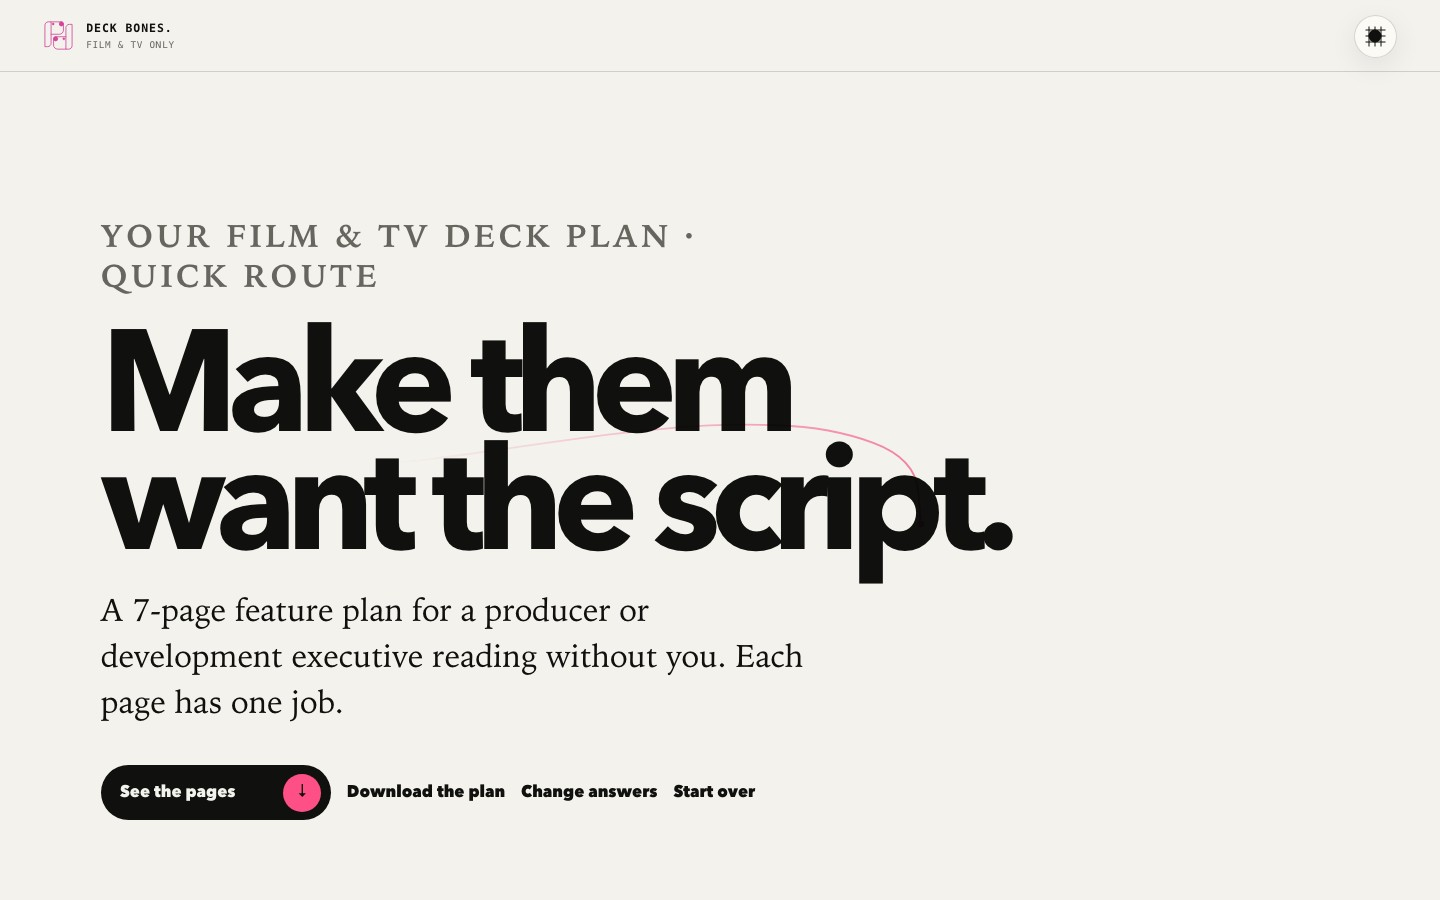
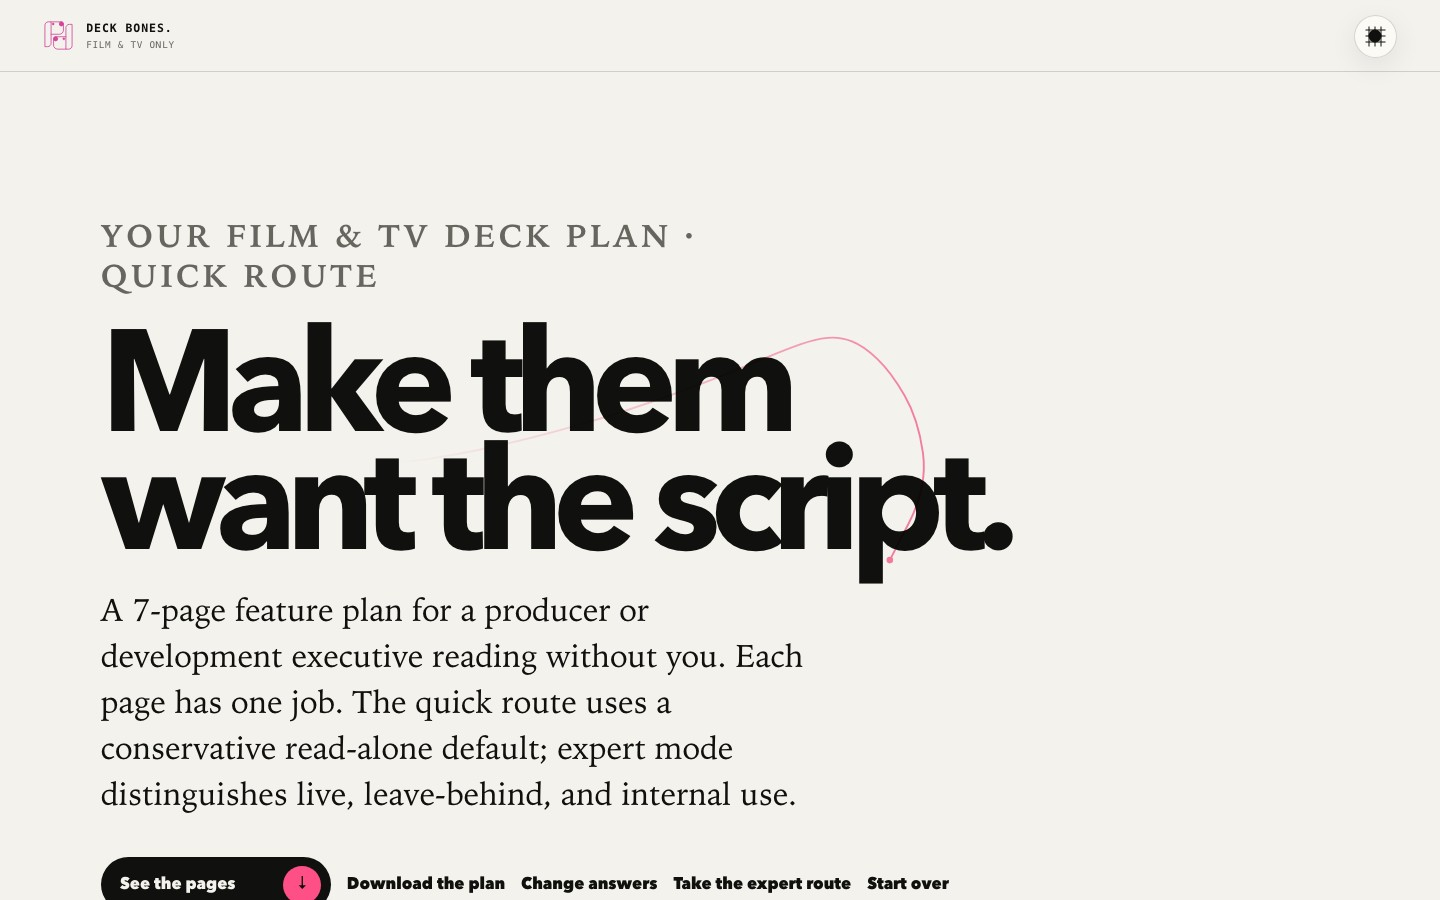
Make Deck Bones state and page travel exact

Changed region(s): [[0.0625, 0.7467, 0.6562, 1.0], [0.625, 0.4978, 0.6562, 0.5289]]

diff --git a/src/main.ts b/src/main.ts
@@ -77,7 +77,7 @@ function landingPage(): string {
     <div class="landing-copy">
       <p class="scope-tag">Film & TV only · scripted features and series</p><p class="kicker">A deck with a reason to exist.</p>
       <h1 data-page-heading tabindex="-1">Plan the deck.</h1>
-      <p class="landing-lede">Choose the real reader and the next decision. Get a useful Film & TV structure out—without blank boxes, template theatre, or a thirty-page tax return.</p>
+      <p class="landing-lede">Choose the real reader and the next decision. Get a useful Film & TV structure out—without blank boxes, template theater, or a thirty-page tax return.</p>
       <div class="landing-proof"><span>Bold choices only</span><span>Pages have one job</span><span>Nothing leaves the browser</span></div>
       <a class="primary-action" href="#choose-a-route">Choose your route <span aria-hidden="true">↓</span></a>
     </div>
@@ -102,7 +102,7 @@ function flowPage(): string {
     ${progress(`${state.ride === "expert" ? "Expert" : "Quick"} Film & TV deck planner`, state.step, active.length)}
     <div class="question-layout">
       <div class="question-copy"><button class="question-back" id="flow-back" type="button">← ${state.step ? "Previous question" : "Choose another route"}</button><div class="question-art" aria-hidden="true"><img src="/assets/hero.webp" alt=""></div><p class="scope-tag">Deck Bones · Film & TV only</p><p class="kicker">${step.kicker}</p><h1 data-page-heading tabindex="-1">${step.question}</h1><p>${step.note}</p></div>
-      <div class="answers-panel"><div class="answers-inner">${choiceGrid(step.choices, step.multiple ? "multi-choice" : "flow-choice", selected, many)}${step.multiple ? '<button class="primary-action multi-continue" id="multi-continue" type="button">Keep going <span aria-hidden="true">↗</span></button>' : ""}</div></div>
+      <div class="answers-panel"><div class="answers-inner"><p class="answers-instruction">${step.multiple ? "Pick every boundary that is real. Nothing else." : "Pick the closest truth. We’ll do the fussy translation."}</p>${choiceGrid(step.choices, step.multiple ? "multi-choice" : "flow-choice", selected, many)}${step.multiple ? '<button class="primary-action multi-continue" id="multi-continue" type="button">Keep going <span aria-hidden="true">↗</span></button>' : ""}</div></div>
     </div>
   </section>`;
 }
@@ -125,12 +125,15 @@ function resultPage(): string {
 }
 
 function pages(result: NonNullable<AppState["result"]>): string {
-  return `<section class="deck-pages" id="deck-pages"><div class="deck-pages__heading"><p class="kicker">The pages</p><h2>Every page gets one job.</h2><p>Scroll sideways. This stays a deck—not an endless vertical tax return.</p><div class="rail-controls"><button id="rail-prev" type="button" aria-label="Previous page">←</button><span>${result.sections.length} main pages</span><button id="rail-next" type="button" aria-label="Next page">→</button></div></div><div class="page-rail" id="page-rail" tabindex="0">${result.sections.map((item, index) => `<article class="deck-page"><span>${String(index + 1).padStart(2, "0")}</span><small>${escapeHTML(item.name)}</small><h3>${escapeHTML(item.job)}</h3><p>${escapeHTML(item.doneWhen)}</p><i aria-hidden="true"></i></article>`).join("")}</div></section>`;
+  return `<section class="deck-pages" id="deck-pages"><div class="deck-pages__heading"><p class="kicker">The pages</p><h2>Every page gets one job.</h2><p>Scroll sideways. This stays a deck—not an endless vertical tax return.</p><div class="rail-controls"><button id="rail-prev" type="button" aria-label="Previous page">←</button><span id="rail-status">Page 1 / ${result.sections.length}</span><button id="rail-next" type="button" aria-label="Next page">→</button></div></div><div class="page-rail" id="page-rail" tabindex="0" role="region" aria-label="Film and TV deck pages">${result.sections.map((item, index) => `<article class="deck-page" data-page-index="${index}" aria-current="${index === 0 ? "true" : "false"}"><span>${String(index + 1).padStart(2, "0")}</span><small>${escapeHTML(item.name)}</small><h3>${escapeHTML(item.job)}</h3><p>${escapeHTML(item.doneWhen)}</p><i aria-hidden="true"></i></article>`).join("")}</div></section>`;
 }
 
 function setAnswer(key: keyof DeckAnswers, value: string): void {
   const target = state.answers as unknown as Record<string, unknown>;
   target[key] = value;
+  if (key === "format" && value !== "series") delete target.seriesShape;
+  if (key === "goal" && value !== "specific") delete target.specificAsk;
+  if (key === "goal" && value !== "funding") delete target.financeBasis;
 }
 
 function advance(): void {
@@ -141,6 +144,9 @@ function advance(): void {
 }
 
 function bindEvents(): void {
+  document.querySelector(".brand")?.addEventListener("click", (event) => {
+    event.preventDefault(); state.phase = "landing"; state.ride = undefined; state.result = undefined; save(); render(true);
+  });
   document.querySelectorAll<HTMLButtonElement>("[data-ride]").forEach((button) => button.addEventListener("click", () => {
     state.ride = button.dataset.ride as Ride; state.phase = "flow"; state.step = 0; state.answers = { boundaries: [] }; save(); render(true);
   }));
@@ -161,14 +167,52 @@ function bindEvents(): void {
   document.querySelector("#change-answers")?.addEventListener("click", () => { state.phase = "flow"; state.step = Math.max(0, steps().length - 1); save(); render(true); });
   document.querySelector("#go-expert")?.addEventListener("click", () => { state.ride = "expert"; state.phase = "flow"; state.step = 0; state.result = undefined; save(); render(true); });
   document.querySelector("#start-over")?.addEventListener("click", () => { clearSession(SESSION_KEY); Object.assign(state, fallback, { answers: { boundaries: [] } }); render(true); });
-  document.querySelector("#download-plan")?.addEventListener("click", () => {
-    const result = state.result!;
-    downloadText("deck-bones-plan.md", `# ${result.headline}\n\n${result.intro}\n\n## This version\n${result.versionBrief.map(([k, v]) => `- **${k}:** ${v}`).join("\n")}\n\n## Main pages\n${result.sections.map((item, index) => `${index + 1}. **${item.name}** — ${item.job}\n   Done when: ${item.doneWhen}`).join("\n")}\n\n## Expert notes\n${result.expertNotes.map((item) => `- ${item}`).join("\n")}\n\n## Leave out\n${result.leaveOut.map((item) => `- ${item}`).join("\n")}\n\nGenerated locally by Deck Bones from pitch.dog.\n`);
-  });
+  document.querySelector("#download-plan")?.addEventListener("click", () => downloadText("deck-bones-plan.md", planMarkdown()));
   const rail = document.querySelector<HTMLElement>("#page-rail");
-  const move = (direction: number) => rail?.scrollBy({ left: direction * Math.max(280, rail.clientWidth * 0.72), behavior: matchMedia("(prefers-reduced-motion: reduce)").matches ? "auto" : "smooth" });
-  document.querySelector("#rail-prev")?.addEventListener("click", () => move(-1));
-  document.querySelector("#rail-next")?.addEventListener("click", () => move(1));
+  const cards = [...(rail?.querySelectorAll<HTMLElement>(".deck-page") ?? [])];
+  const previous = document.querySelector<HTMLButtonElement>("#rail-prev");
+  const next = document.querySelector<HTMLButtonElement>("#rail-next");
+  const status = document.querySelector<HTMLElement>("#rail-status");
+  let railIndex = 0;
+  let railFrame = 0;
+  const paintRail = () => {
+    previous && (previous.disabled = railIndex <= 0);
+    next && (next.disabled = railIndex >= cards.length - 1);
+    if (status) status.textContent = `Page ${railIndex + 1} / ${cards.length}`;
+    cards.forEach((card, index) => card.setAttribute("aria-current", String(index === railIndex)));
+  };
+  const nearestRailIndex = () => {
+    if (!rail || !cards.length) return 0;
+    const first = cards[0]!.offsetLeft;
+    return cards.reduce((nearest, card, index) => Math.abs(card.offsetLeft - first - rail.scrollLeft) < Math.abs(cards[nearest]!.offsetLeft - first - rail.scrollLeft) ? index : nearest, 0);
+  };
+  const moveRail = (direction: number) => {
+    if (!rail || !cards.length) return;
+    railIndex = Math.max(0, Math.min(cards.length - 1, railIndex + direction));
+    rail.scrollTo({ left: cards[railIndex]!.offsetLeft - cards[0]!.offsetLeft, behavior: matchMedia("(prefers-reduced-motion: reduce)").matches ? "auto" : "smooth" });
+    paintRail();
+  };
+  previous?.addEventListener("click", () => moveRail(-1));
+  next?.addEventListener("click", () => moveRail(1));
+  rail?.addEventListener("scroll", () => { cancelAnimationFrame(railFrame); railFrame = requestAnimationFrame(() => { railIndex = nearestRailIndex(); paintRail(); }); }, { passive: true });
+  rail?.addEventListener("keydown", (event) => {
+    if (event.key === "ArrowLeft" || event.key === "ArrowRight") { event.preventDefault(); moveRail(event.key === "ArrowLeft" ? -1 : 1); }
+    if (event.key === "Home" || event.key === "End") { event.preventDefault(); railIndex = event.key === "Home" ? 1 : cards.length - 2; moveRail(event.key === "Home" ? -1 : 1); }
+  });
+  paintRail();
+}
+
+function planMarkdown(): string {
+  const result = state.result;
+  if (!result) return "# Deck Bones\n\nNo plan yet.\n";
+  const pages = result.sections.length
+    ? result.sections.map((item, index) => `${index + 1}. **${item.name}** — ${item.job}\n   Done when: ${item.doneWhen}`).join("\n")
+    : "No deck pages yet. Complete the prerequisite first.";
+  const optional = result.optional.length
+    ? result.optional.map((item) => `- **${item.name}:** ${item.job} — ${item.reason}`).join("\n")
+    : "- Nothing parked.";
+  const expert = result.expertNotes.length ? result.expertNotes.map((item) => `- ${item}`).join("\n") : "- Quick-route assumptions remain visible in the plan.";
+  return `# ${result.headline}\n\n${result.intro}\n\n## This version\n\n${result.versionBrief.map(([key, value]) => `- **${key}:** ${value}`).join("\n")}${result.preDeckAction ? `\n\n## Do this before the deck\n\n${result.preDeckAction}` : ""}\n\n## Main pages\n\n${pages}\n\n## Why this plan\n\n${result.reasons.map((item) => `- ${item}`).join("\n")}\n\n## What the expert context changed\n\n${expert}\n\n## Useful later—not in the main path\n\n${optional}\n\n## Leave out\n\n${result.leaveOut.map((item) => `- ${item}`).join("\n")}\n\n## Assumptions and limits\n\n${result.raw.limitations.map((item) => `- ${item}`).join("\n")}\n\nGenerated locally by Deck Bones from pitch.dog.\n`;
 }
 
 history.scrollRestoration = "manual";

diff --git a/tests/product.test.ts b/tests/product.test.ts
@@ -25,3 +25,19 @@ test("the product has no grain and always lands new questions at the top", () =>
   assert.match(readFileSync("src/main.ts", "utf8"), /render\(true\)/);
   assert.doesNotMatch(readFileSync("src/main.ts", "utf8"), /textarea|Keep this answer|Are you in danger|shared device/i);
 });
+
+test("conditional answers cannot survive after their question stops applying", () => {
+  const source = readFileSync("src/main.ts", "utf8");
+  assert.match(source, /value !== "series"\) delete target\.seriesShape/);
+  assert.match(source, /value !== "specific"\) delete target\.specificAsk/);
+  assert.match(source, /value !== "funding"\) delete target\.financeBasis/);
+});
+
+test("the downloaded plan and page rail preserve the useful answer", () => {
+  const source = readFileSync("src/main.ts", "utf8");
+  assert.match(source, /## Do this before the deck/);
+  assert.match(source, /## Why this plan/);
+  assert.match(source, /## Assumptions and limits/);
+  assert.match(source, /id="rail-status"/);
+  assert.match(source, /aria-current/);
+});

diff --git a/src/content.ts b/src/content.ts
@@ -54,7 +54,7 @@ export const MATERIALS = [
 ] as const satisfies readonly Choice[];
 
 export const ROLES = [
-  { value: "writer", label: "Writer", detail: "The writing and project are the centre." },
+  { value: "writer", label: "Writer", detail: "The writing and project are the center." },
   { value: "writer-director", label: "Writer-director", detail: "Story and screen interpretation are both yours." },
   { value: "director", label: "Director", detail: "The directing idea needs a genuine job." },
   { value: "producer", label: "Producer", detail: "Creative and practical truth can sit together." },
@@ -90,7 +90,7 @@ export const ACCESS = [
   { value: "representative_producer", label: "Through a rep or producer", detail: "A legitimate intermediary controls the route." },
   { value: "open_process", label: "An open call or program", detail: "Current eligibility and rules matter." },
   { value: "accepted_cold", label: "They publicly accept material", detail: "Use the stated route and limits." },
-  { value: "none", label: "No real route yet", detail: "Build access before attachment theatre." },
+  { value: "none", label: "No real route yet", detail: "Build access before attachment theater." },
   { value: "unknown", label: "I have not checked", detail: "Verify before treating a name as a route." },
 ] as const satisfies readonly Choice[];
 
@@ -98,7 +98,7 @@ export const DELIVERIES = [
   { value: "live", label: "I’ll present it live", detail: "The room hears you; the pages can breathe." },
   { value: "read", label: "They’ll read it without me", detail: "The document must carry its own context." },
   { value: "both", label: "Live, then left behind", detail: "One file is doing two jobs. A second cut may be kinder." },
-  { value: "internal", label: "Inside the team", detail: "A useful working document, not theatre." },
+  { value: "internal", label: "Inside the team", detail: "A useful working document, not theater." },
 ] as const satisfies readonly Choice[];
 
 export const ENCOUNTERS = [
@@ -148,7 +148,7 @@ export const BOUNDARIES = [
   { value: "none", label: "No special boundary", detail: "Ordinary working conditions." },
   { value: "sensitive", label: "Sensitive or unannounced material", detail: "Make the traveling version smaller and safer." },
   { value: "images_unclear", label: "Image permission is unclear", detail: "Keep disputed images out without freezing the deck." },
-  { value: "finance_unchecked", label: "Money claims are not checked", detail: "Creative case: yes. Investment theatre: no." },
+  { value: "finance_unchecked", label: "Money claims are not checked", detail: "Creative case: yes. Investment theater: no." },
   { value: "substantial_unpaid", label: "Substantial custom work is unpaid", detail: "Clarify scope, use, terms, and the real decision first." },
   { value: "authority_unclear", label: "Rights or authority are unclear", detail: "Private work can continue; circulation waits." },
 ] as const satisfies readonly Choice[];

diff --git a/src/base.css b/src/base.css
@@ -49,7 +49,8 @@ body {
 ::selection { background: var(--pink); color: #10110e; }
 button, input, textarea, select { font: inherit; color: inherit; }
 button { cursor: pointer; }
-button:disabled { cursor: wait; opacity: 0.58; }
+button:disabled { cursor: not-allowed; opacity: 0.58; }
+button[aria-busy="true"] { cursor: progress; }
 a { color: inherit; }
 img { display: block; max-width: 100%; }
 h1, h2, h3, p { margin-top: 0; }
@@ -286,6 +287,7 @@ h1[tabindex="-1"]:focus { outline: none; }
 }
 .question-art img { aspect-ratio: 3 / 2; object-fit: cover; }
 .answers-panel { display: flex; align-items: center; padding: clamp(1.25rem, 4vw, 4rem); background: color-mix(in srgb, var(--paper) 72%, var(--bg)); box-shadow: inset 1px 0 var(--line); }
+.answers-instruction { margin: 0 0 1rem; color: var(--muted); font-family: var(--serif); font-size: 0.98rem; }
 .answer-grid { display: grid; grid-template-columns: repeat(2, minmax(0, 1fr)); gap: 0.8rem; width: 100%; }
 .answer-card {
   position: relative;

diff --git a/src/ui.ts b/src/ui.ts
@@ -76,6 +76,10 @@ export function bindTheme(storageKey: string): void {
     document.documentElement.dataset.theme = theme;
     document.documentElement.dataset.themeSource = source;
     document.querySelector<HTMLMetaElement>('meta[name="theme-color"]')?.setAttribute("content", theme === "dark" ? "#0d0e0c" : "#f3f2ed");
+    const toggle = document.querySelector<HTMLButtonElement>("#theme-toggle");
+    const next = theme === "dark" ? "light" : "dark";
+    toggle?.setAttribute("aria-label", `Switch to ${next} theme`);
+    toggle?.setAttribute("title", `Switch to ${next} theme`);
   };
   if (!themeSystemBound) {
     system.addEventListener("change", (event) => {

diff --git a/CHANGELOG.md b/CHANGELOG.md
@@ -1,5 +1,12 @@
 # Changelog
 
+## 1.1.0 — 2026-07-20
+
+- Prevented conditional series, request, and finance answers from leaking into plans after their parent choice changes.
+- Turned the 16:9 page rail into exact page-by-page navigation with current-page status, disabled edge controls, and keyboard travel.
+- Expanded downloaded plans to preserve prerequisites, reasons, parked pages, expert context, and limitations.
+- Added plain choice guidance, truthful home/theme controls, USA-facing copy polish, and refreshed public journey images.
+
 ## 1.0.0 — 2026-07-20
 
 - Released Deck Bones as an independent Film and TV deck planner.

diff --git a/LEARNINGS.md b/LEARNINGS.md
@@ -5,3 +5,6 @@
 - Structured choices beat blank boxes when the product cannot interpret prose.
 - “Film and TV only” is a strength: narrow evidence creates better decisions.
 - Quick routes need visible assumptions; expert routes should replace them, not merely add ceremony.
+- A hidden conditional answer is still user data; when its parent fact changes, the answer must leave too.
+- Horizontal deck navigation needs exact pages and visible position—not approximate scrolling.
+- A useful export must preserve “do this first,” not quietly flatten every answer into pages.

diff --git a/docs/PRODUCT-CONTRACT.md b/docs/PRODUCT-CONTRACT.md
@@ -14,7 +14,8 @@ Quick mode uses the project form, the deck’s immediate job, the first recipien
 - an ordered set of page jobs with plain reasons;
 - items to reuse, gather, build, park, or verify;
 - assumptions made by the quick route;
-- a horizontal 16:9 plan preview.
+- a horizontal 16:9 plan preview with exact page position and keyboard controls;
+- a local download preserving prerequisites, page jobs, reasoning, parked work, and limitations.
 
 ## Boundaries
 

diff --git a/README.md b/README.md
@@ -23,6 +23,8 @@ Deck Bones turns a handful of structured decisions into a page-by-page plan for 
 
 Both routes produce the same kind of inspectable result: what comes first, what belongs in the deck, what can be parked, and why.
 
+The result stays deck-shaped: a 16:9 horizontal rail now moves one whole page at a time, names the current page, and works with arrow keys. The download preserves prerequisites and reasoning as well as the page list.
+
 ## Film & TV only
 
 Deck Bones is deliberately narrow. It plans decks for scripted features and series. Advertising, startups, education, and other pitch situations belong in different tools because their evidence, labor, readers, and decisions differ.